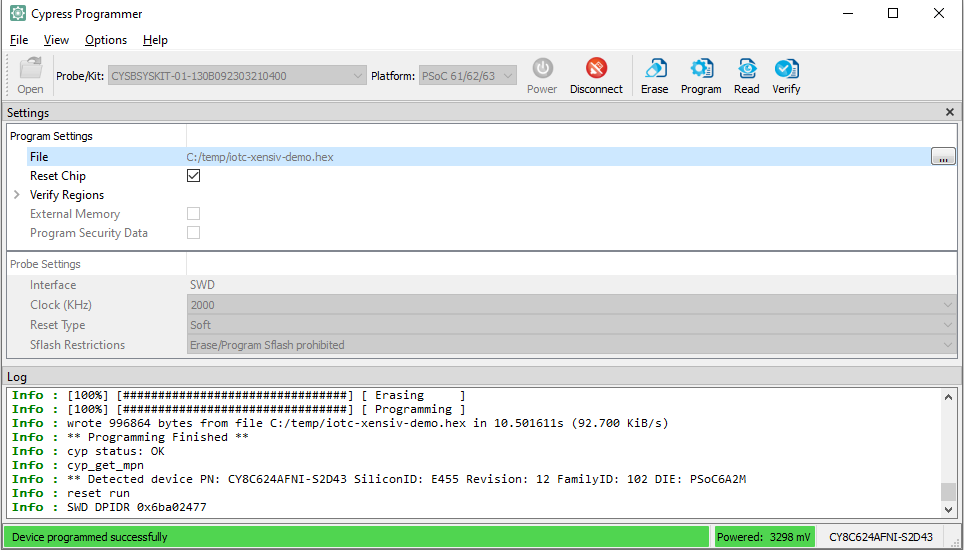
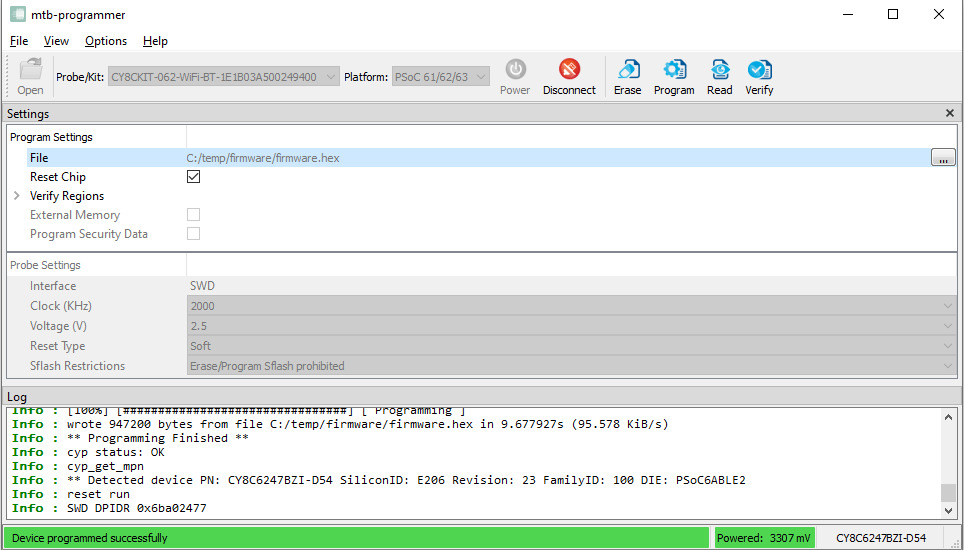
Update the quickstart demo since the programming tool change

diff --git a/QUICKSTART_DEMO.md b/QUICKSTART_DEMO.md
@@ -12,7 +12,7 @@ which is named "USB Serial". Use defaults for 115200 baud: 8 bits, 1 stop bit, n
 Firmware logs will be available on that COM port. 
 
 ## Program the prebuild Firmware
-* Download the [Cypress Programmer](https://softwaretools.infineon.com/tools/com.ifx.tb.tool.cypressprogrammer?_ga=2.62648364.1833039610.1681757143-213784066.1663170031).
+* Download the [ModusToolbox Programming Tools](https://www.infineon.com/cms/en/design-support/tools/programming-testing/psoc-programming-solutions/).
 * Download the prebuild [Firmware](https://saleshosted.z13.web.core.windows.net/sdk/infineon/iotc-xensiv-demo-060723.zip).
 * Launch the programmer software, **Open** the hex firwmare on the top left and Click **Connect**.
 * Click **Program** button on the top right and wait for the propress bar to be done as the image shown below.
